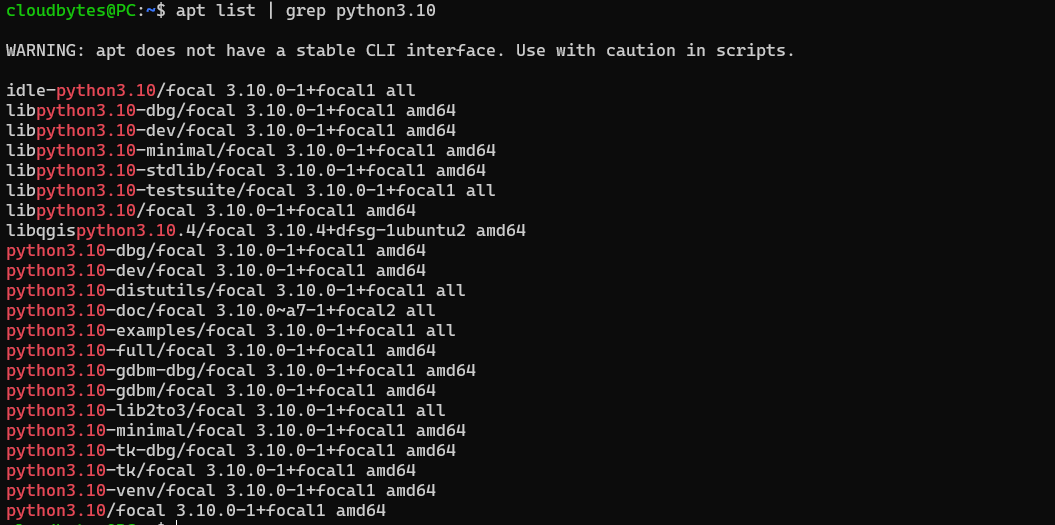
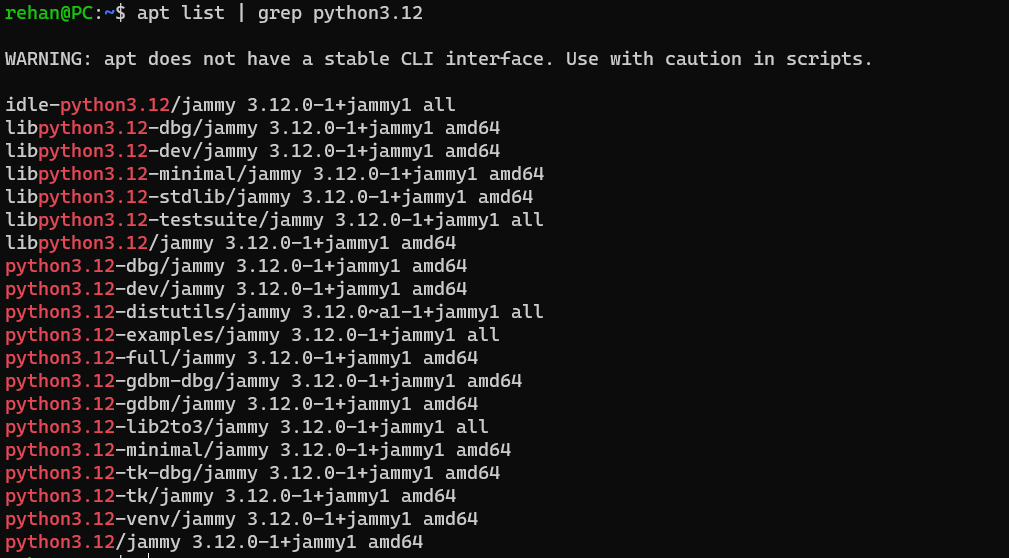
UPDATE: Updates the article to python 3.12

Changed region(s): [[0.0, 0.1524, 0.553, 1.0], [0.0, 0.061, 0.8603, 0.1219], [0.0, 0.0, 0.4301, 0.061]]

diff --git a/content/articles/99999980-upgrade-python-on-linux.md b/content/articles/99999980-upgrade-python-on-linux.md
@@ -1,61 +1,109 @@
-Title: Upgrade Python to latest version (3.10) on Ubuntu Linux
-Date: 2021-08-29
+Title: Upgrade Python to latest version (3.12) on Ubuntu Linux or WSL2
+Date: 2023-10-06
 Category: Snippets
-Tags: python, ubuntu
+Tags: python, ubuntu, wsl
 Author: Rehan Haider
-Summary: A complete guide on how to upgrade Python to the latest version (Python 3.10) on Ubuntu Linux and solve associated issues
+Summary: A complete guide on how to upgrade Python to the latest version (Python 3.12) on Ubuntu Linux and solve associated issues. Also works on WSL2.
 Keywords: Linux, Python, Ubuntu, Python 3.10, 
 Slug: upgrade-python-to-latest-version-on-ubuntu-linux
 
-**Last Updated:** 2022-08-11
+**Last Updated:** 2023-10-06
 
-Linux systems come with Python install by default, but, they are usually not the latest. Python also cannot be updated by a typical `apt upgrade` command as well. 
+Ubuntu both Desktop & WSL2 Linux systems come with Python installed by default, but, they are usually not the latest. This is a short guide on how to upgrade your Python to the latest version (Python 3.12) on Ubuntu Linux and solve associated issues.
 
-To check the version of Python installed on your system run
+I am using Ubuntu 22.04 on WSL2, but this should work on any Ubuntu version.
+
+First, check the version of Python installed on your system run
 ```bash
 python3 --version
 ```
 > `python` keyword is used for Python 2.x versions which has been deprecated
 
-In this guide we will
 
-1. Update Python to the latest version
-2. Fix pip & other Python related issues
-3. While doing the above two, ensure your Ubuntu which is heavily dependent on Python does not break
 
 ## Updating Python to the latest version 
 Ubuntu's default repositories do not contain the latest version of Python, but an open source repository named `deadsnakes` does.
 
-> !!! warning "Python3.10 is not officially available on Ubuntu 20.04, ensure you backup your system before upgrading."
 
-### Step 1: Check if Python3.10 is available for install
+### Step 1: Check if Python3.12 is available for install
+
+First, update your system by running
+
+```bash
+sudo apt update && sudo apt upgrade -y
+```
+
 ```bash
 sudo add-apt-repository ppa:deadsnakes/ppa
 sudo apt update
 ```
 
-Check if Python 3.10 is available by running
+Check if Python 3.12 is available by running
 
 ```bash
-apt list | grep python3.10
+apt list | grep python3.12
 ```
 
-This will produce the below result, if you see python3.10 it means you can install it
+This will produce the below result, if you see python3.12 it means you can install it
 
 ![apt list check if python is present]({static}/images/99999980-apt_list.png)
 
-### Step 2: Install Python 3.10
-Now you can install Python 3.10 by running
+If you see something similar to the above, it means you can install Python 3.12.
+
+### Step 2: Install Python 3.12
+Now you can install Python 3.12 by running
 
 ```bash 
-sudo apt install python3.10
+sudo apt install python3.12
 ```
 
-Now though Python 3.10 is installed, if you check the version of your python by running `python3 --version` you will still see an older version. This is because you have two versions of Python installed and you need to choose Python 3.10 as the default. 
+Now though Python 3.12 is installed, if you check the version of your python by running `python3 --version` you will still see an older version. This is because if you are using Ubuntu Desktop, the default Python is needed by the system and changing it will break your system.
 
-### Step 3: Set Python 3.10 as default
+### Step 3: Run Python 3.12
 
-> !!! warning "Steps beyond here are tested on Ubuntu 20.04 in VM & WSL2, but are experimental , proceed at your own risk."
+You can run Python 3.12 by running
+
+```bash
+python3.12 --version
+```
+
+**The right way to run Python 3.12 On Linux Desktops is by using a virtual environment.**
+
+E.g. you can create a new virtual environment by running
+
+```bash
+python3.12 -m venv env
+```
+
+and activate it by running
+
+```bash
+source env/bin/activate
+```
+
+Now you can run `python --version` and you should see the latest version of Python as the output.
+
+### Extra
+If you really, really, really don't want to type `python3.12` every time you want to run a file, you can create an alias. 
+
+If you are using bash, run
+```bash
+echo "alias py=/usr/bin/python3" >> ~/.bashrc
+echo "alias python=/usr/bin/python3" >> ~/.bashrc
+```
+
+
+Or, if you have [oh-my-zsh](https://ohmyz.sh/) installed, you can avoid typing out `python3` by running
+```bash
+echo "alias py=/usr/bin/python3" >> ~/.zshrc
+echo "alias python=/usr/bin/python3" >> ~/.zshrc
+```
+After restarting your terminal, you can run your Python apps with `py` or `python`.
+
+
+## WSL2 Only: Set Python 3.12 as default
+> !!! warning "Steps beyond here are tested on WSL2, it may break your Ubuntu/Linux desktop."
+
 
 Changing the default alternatives for Python will break your Gnome terminal. To avoid this, you need to edit the `gnome-terminal` configuration file.
 
@@ -71,7 +119,7 @@ Then save and close the file.
 Next, update the default Python by adding both versions to an alternatives by running the below
 ```bash
 sudo update-alternatives --install /usr/bin/python3 python3 /usr/bin/python3.9 1
-sudo update-alternatives --install /usr/bin/python3 python3 /usr/bin/python3.10 2
+sudo update-alternatives --install /usr/bin/python3 python3 /usr/bin/python3.12 2
 ```
 
 Now run 
@@ -86,10 +134,10 @@ Now run `python3 --version` again and you should see the latest Python as the ou
 
 ## Fix pip and disutils errors
 
-Installing the new version of Python will break `pip` as the `distutils` for Python3.10 is not installed yet.
+Installing the new version of Python will break `pip` as the `distutils` for Python3.12 is not installed yet.
 
 ### Fix Python3-apt 
-Running `pip` in terminal will not work, as the current pip is not compatible with Python3.10 and python3-apt will be broken, that will generate an error like
+Running `pip` in terminal will not work, as the current pip is not compatible with Python3.12 and python3-apt will be broken, that will generate an error like
 ```text
 Traceback (most recent call last):   
     File "/usr/lib/command-not-found", line 28, in <module>     
@@ -120,24 +168,24 @@ sudo apt install python3-apt
 
 ###  Install pip & distutils
 
-Running `pip`  will still throw an error `pip: command not found`. We need to install the latest version of pip compatible with Python 3.10. 
+Running `pip`  will still throw an error `pip: command not found`. We need to install the latest version of pip compatible with Python 3.12. 
 
 Also, if try to manually install the latest version of pip, it will throw an error like
 ```text
 ImportError: cannot import name 'sysconfig' from 'distutils' 
-(/usr/lib/python3.10/distutils/__init__.py)
+(/usr/lib/python3.12/distutils/__init__.py)
 ```
 Or you might also see an error stating `No module named 'distutils.util'`. This is because the `distutils` module is not installed yet, to install run the below command
 
 ```bash
-sudo apt install python3.10-distutils
+sudo apt install python3.12-distutils
 ```
 
 Now you can install `pip` by running
 
 ```bash
 curl https://bootstrap.pypa.io/get-pip.py -o get-pip.py
-sudo python3.10 get-pip.py
+sudo python3.12 get-pip.py
 ```
 > If you get an error like `bash: curl: command not found` then you need to install curl first by running `sudo apt install curl`
 
@@ -151,15 +199,9 @@ Error: Command '['/path/to/env/bin/python3', '-Im', 'ensurepip', '--upgrade', '-
 
 You can fix this by reinstalling venv by running
 ```bash
-sudo apt install python3.10-venv
+sudo apt install python3.12-venv
 ```
 
 All should be done now. It is complicated, but this is how you update Python to latest version.
 
-### Extra
-If you have [oh-my-zsh](https://ohmyz.sh/) installed, you can avoid typing out `python3` by running
-```bash
-echo "alias py=/usr/bin/python3" >> ~/.zshrc
-echo "alias python=/usr/bin/python3" >> ~/.zshrc
-```
-Now you can run your files with `py` or `python`.
+
